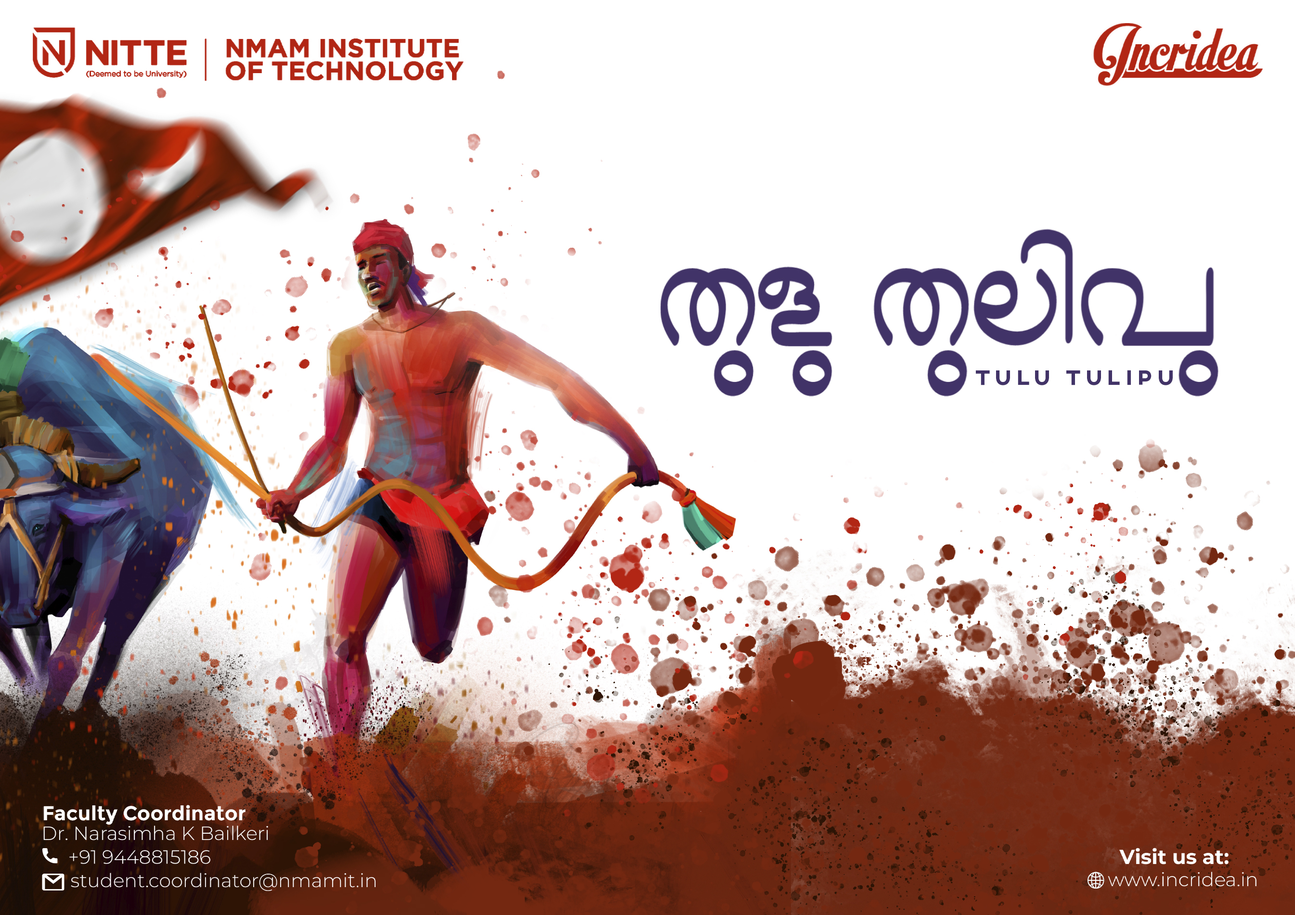
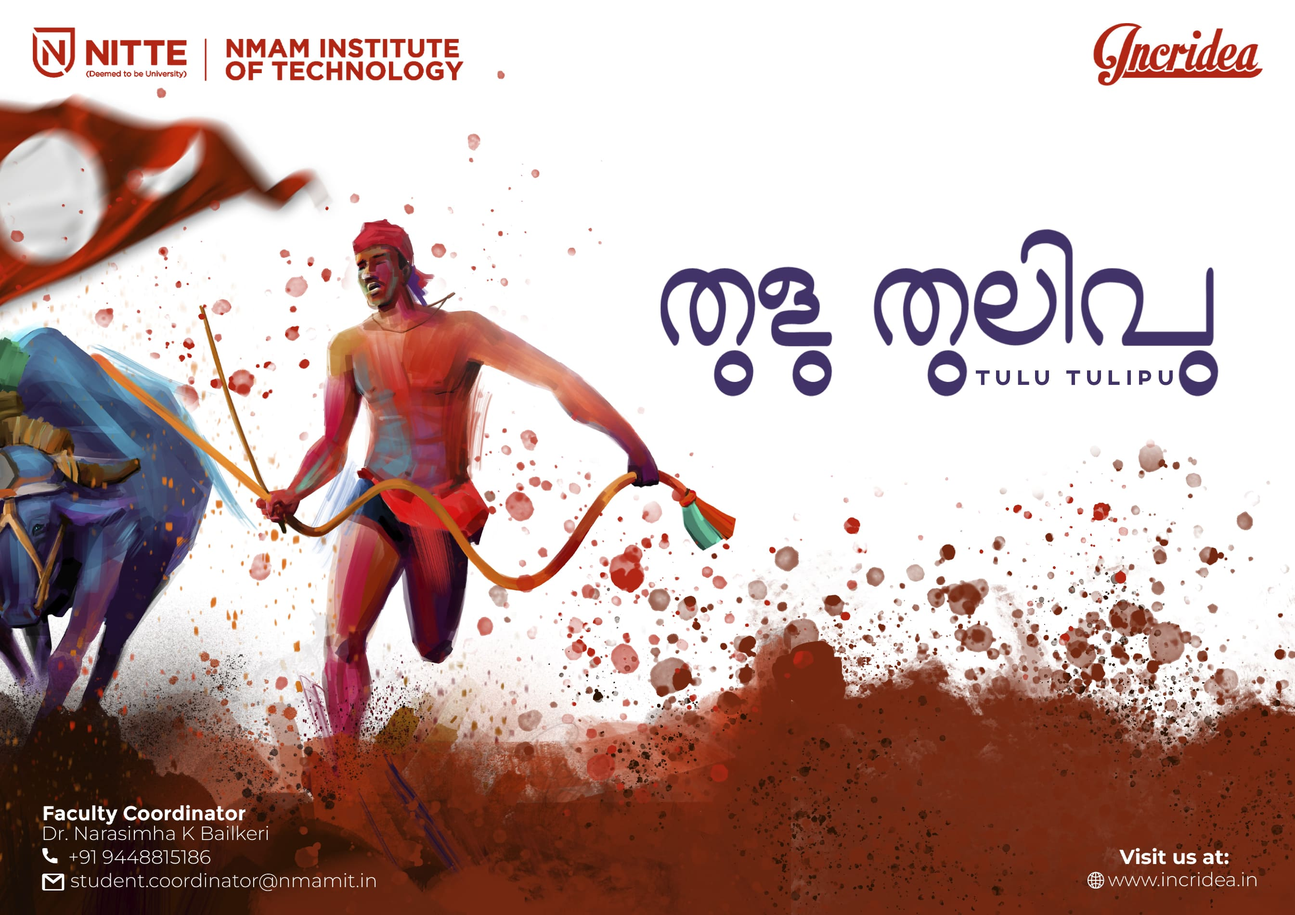
[add]compressed images

diff --git a/src/components/eventsPeek/index.tsx b/src/components/eventsPeek/index.tsx
@@ -8,7 +8,7 @@ const EventsPeek: FC<{
     "Battle_of_Bands_WEB.jpg",
     "Copy of NAVARASA_WithoutContact.png",
     "Desafio.jpg",
-    "Stomp That.png",
+    "Stomp That.jpg",
     "VibeV3.jpg",
     "COUTURE_WEB.jpg",
     "Knuckle Down.jpg",
